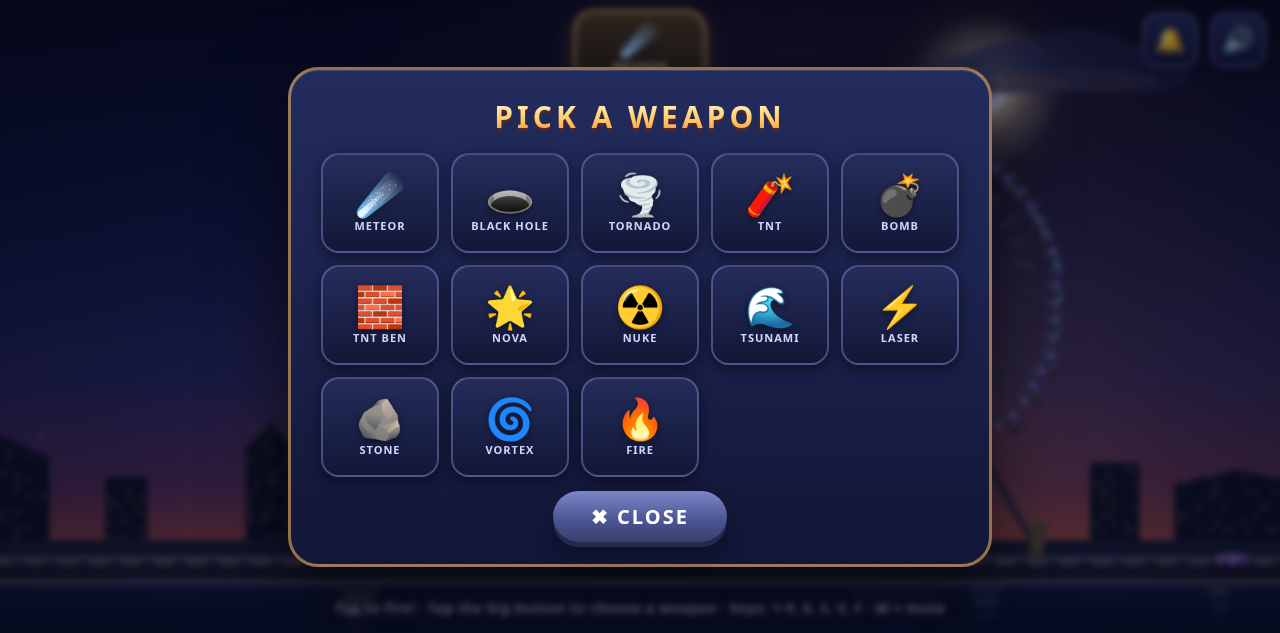
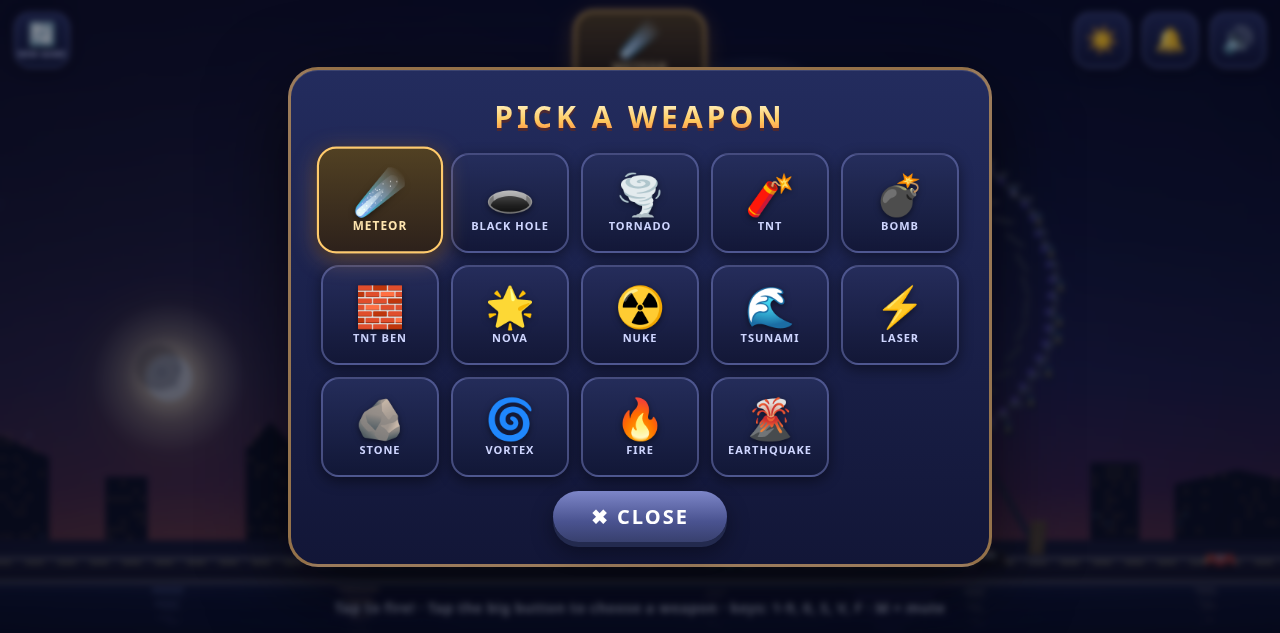
v4.1.1: README screenshots refreshed (14-weapon picker, golden-hour world with plane) + on-screen hint now lists E key + sw.js CACHE bump v4.1.0 -> v4.1.1

diff --git a/index.html b/index.html
@@ -197,7 +197,7 @@
   <button id="muteBtn" type="button" title="Sound on/off (M)">🔊</button>
   <button id="bellBtn" type="button" title="Ring the bells! (full 12 o'clock chime)">🔔</button>
   <button id="weatherBtn" type="button" title="Tap for the next weather!">⛅</button>
-  <div id="hint">Tap to fire! · Tap the big button to choose a weapon · keys: 1-9, 0, S, V, F · M = mute</div>
+  <div id="hint">Tap to fire! · Tap the big button to choose a weapon · keys: 1-9, 0, S, V, F, E · M = mute</div>
 </div>
 
 <div id="picker" class="overlay hidden">

diff --git a/sw.js b/sw.js
@@ -4,7 +4,7 @@
    ⚠ CACHE name must be bumped whenever ANY cached file changes — the new
    cache name activates the updated service worker, and the activate step
    deletes the old cache. That is the deploy cache-bust mechanism. */
-const CACHE = 'london-boom-v4.1.0';
+const CACHE = 'london-boom-v4.1.1';
 
 const ASSETS = [
   './',
